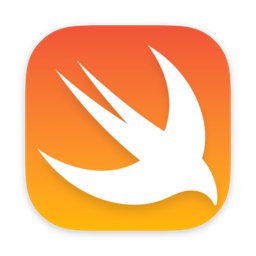
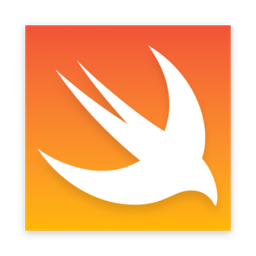
feat(import): turn corners off for every imported background
Corners now go to off for any background image import, app icon or
full-bleed artwork alike. Padding and shadow still follow the image's
edges. The Settings > Importing toggle is "Set Corners to Off on Import"
again and applies to every import; mica-cli and the configuration codec
use .off as the corner baseline for an imported background.

IconBackgroundSpec.importedCornerRadiusStyle went, since nothing depends
on the image any more. The import notice now reports Corners off for
artwork over default settings and no corner change for artwork after an
app icon.

Tests: MicaTests 1099 total, 1092 passed, 5 skipped, 2 failed; both
failures are ImportNoticeTests title checks against uncommitted title
wording in the working tree, not part of this commit. mica-cli Tests
348/348. cli-smoke-test.sh 99/8/20/28/55/9 with the two artwork corner
rows flipped. check-wiki-coverage.sh passes. Five wiki images that
import full-bleed artwork were regenerated.

diff --git a/MicaTests/Models/IconSettingsImportDefaultsTests.swift b/MicaTests/Models/IconSettingsImportDefaultsTests.swift
@@ -1,10 +1,10 @@
 // IconSettingsImportDefaultsTests.swift
 // Covers the per-slot imported-image helpers on IconSettings. Every image
 // import (menu, paste, drag, sidebar, CLI) routes through these so the
-// defaults stay consistent. A background's defaults depend on the image: an
-// app icon (transparent edges) gets padding compensation with its shadow and
-// corners off, artwork that reaches its edges gets neither. A foreground
-// import leaves the shadow alone.
+// defaults stay consistent. A background's padding and shadow depend on the
+// image: an app icon (transparent edges) gets padding compensation with its
+// shadow off, artwork that reaches its edges gets neither. Corners go off for
+// either. A foreground import leaves the shadow alone.
 
 import Testing
 import SwiftUI
@@ -109,7 +109,7 @@ struct IconSettingsImportDefaultsTests {
         #expect(settings.icon.background.cornerRadiusStyle == .off)
     }
 
-    @Test("Importing full-bleed artwork as the icon background keeps its edges, shadow and corners")
+    @Test("Importing full-bleed artwork as the icon background keeps its edges and shadow, and turns corners off")
     func iconBackground_fullBleedKeepsStyles() throws {
         var settings = IconSettings()
         settings.icon.background.shadowStyle = .macOS15
@@ -119,10 +119,10 @@ struct IconSettingsImportDefaultsTests {
 
         #expect(settings.icon.background.compensatesForPadding == false)
         #expect(settings.icon.background.shadowStyle == .macOS15)
-        #expect(settings.icon.background.cornerRadiusStyle == .macOS15)
+        #expect(settings.icon.background.cornerRadiusStyle == .off)
     }
 
-    @Test("Full-bleed artwork after an app icon turns the shadow and corners back on")
+    @Test("Full-bleed artwork after an app icon turns the shadow back on and leaves corners off")
     func iconBackground_fullBleedAfterAppIcon() throws {
         var settings = IconSettings()
         settings.icon.applyBackgroundImage(try ImportedImage.iconFixture())
@@ -131,11 +131,11 @@ struct IconSettingsImportDefaultsTests {
 
         #expect(settings.icon.background.compensatesForPadding == false)
         #expect(settings.icon.background.shadowStyle == IconBackgroundSpec().shadowStyle)
-        #expect(settings.icon.background.cornerRadiusStyle == IconBackgroundSpec().cornerRadiusStyle)
+        #expect(settings.icon.background.cornerRadiusStyle == .off)
     }
 
-    @Test("The corner preference applies to app icons only")
-    func iconBackground_cornerPreferenceScopedToAppIcons() throws {
+    @Test("With the corner preference off, every import keeps the corners it had")
+    func iconBackground_cornerPreferenceOffKeepsCorners() throws {
         let keepCorners = ImportDefaults(hidesForeground: true, turnsOffCornerRadius: false)
 
         var icon = IconSettings()
@@ -143,9 +143,9 @@ struct IconSettingsImportDefaultsTests {
         #expect(icon.icon.background.cornerRadiusStyle == IconBackgroundSpec().cornerRadiusStyle)
 
         var artwork = IconSettings()
-        artwork.icon.background.cornerRadiusStyle = .off
+        artwork.icon.background.cornerRadiusStyle = .macOS15
         artwork.icon.applyBackgroundImage(try ImportedImage.testFixture(width: 64, height: 64), defaults: keepCorners)
-        #expect(artwork.icon.background.cornerRadiusStyle == IconBackgroundSpec().cornerRadiusStyle)
+        #expect(artwork.icon.background.cornerRadiusStyle == .macOS15)
     }
 
     // MARK: - Badge background

diff --git a/Mica/Services/MicaConfig.swift b/Mica/Services/MicaConfig.swift
@@ -711,14 +711,13 @@ private struct ConfigReader {
             settings.icon.background.usesGradient = gradient
         }
         // The third conditional baseline: absent `icon-bg-corner-radius` + an imported
-        // icon background ⇒ `.off` for an app icon and on for artwork that reaches its
-        // edges, mirroring `IconSpec.applyBackgroundImage`; encode uses the same
-        // baseline. The background shadow follows the same split.
+        // icon background ⇒ `.off`, mirroring `IconSpec.applyBackgroundImage`; encode
+        // uses the same baseline. The background shadow's baseline depends on
+        // `ImportedImage.hasIconMargin`.
         if let cornerRadius = token(.iconBGCornerRadius, as: IconCornerRadiusStyle.self) {
             settings.icon.background.cornerRadiusStyle = cornerRadius
         } else if importedBackground {
-            settings.icon.background.cornerRadiusStyle = IconBackgroundSpec.importedCornerRadiusStyle(
-                for: settings.icon.background.image, current: settings.icon.background.cornerRadiusStyle)
+            settings.icon.background.cornerRadiusStyle = .off
         }
         if let shadow = token(.iconBGShadow, as: DropShadowStyle.self) {
             settings.icon.background.shadowStyle = shadow
@@ -1270,11 +1269,10 @@ private struct ConfigWriter {
             // `.off`), so both remaining sources read it.
             //
             // Baseline mirrors decode's fresh-import rule, the third of the three: an
-            // imported app icon's corner radius defaults to `.off`, other imported
-            // artwork's to on. The shadow, which every source draws, splits the same way.
+            // imported background's corner radius defaults to `.off`. The shadow, which
+            // every source draws, is off for an app icon and on for other artwork.
             let cornerBaseline: IconCornerRadiusStyle = iconBGImportWritten
-                ? IconBackgroundSpec.importedCornerRadiusStyle(
-                    for: iconBG.image, current: defaults.icon.background.cornerRadiusStyle)
+                ? .off
                 : defaults.icon.background.cornerRadiusStyle
             if iconBG.cornerRadiusStyle != cornerBaseline {
                 put(.iconBGCornerRadius, iconBG.cornerRadiusStyle.cliToken)

diff --git a/mica-cli Tests/ImportedImageDefaultsTests.swift b/mica-cli Tests/ImportedImageDefaultsTests.swift
@@ -1,7 +1,8 @@
 // ImportedImageDefaultsTests.swift
 // Mirrors the GUI's imported-image defaults in the CLI. An imported background
 // that is an app icon (transparent edges) gets padding compensation with its
-// shadow and corners off; artwork that reaches its edges keeps all three.
+// shadow off; artwork that reaches its edges keeps both. Corners go off for
+// either.
 // Foreground imports keep their shadow. Explicit flags override every default.
 
 import Testing
@@ -71,7 +72,7 @@ struct ImportedImageDefaultsTests {
         #expect(settings.icon.background.shadowStyle == .off)
     }
 
-    @Test("Full-bleed artwork as --icon-bg keeps its edges, shadow and corners")
+    @Test("Full-bleed artwork as --icon-bg keeps its edges and shadow")
     func iconBackgroundFullBleed_defaults() throws {
         let path = try makeTempImageFile(inset: 0).path
         let command = try parseCommand(["--icon-symbol", "star.fill", "--icon-bg", path])
@@ -79,7 +80,6 @@ struct ImportedImageDefaultsTests {
         #expect(settings.icon.background.source == .image)
         #expect(settings.icon.background.compensatesForPadding == false)
         #expect(settings.icon.background.shadowStyle == IconBackgroundSpec().shadowStyle)
-        #expect(settings.icon.background.cornerRadiusStyle == IconBackgroundSpec().cornerRadiusStyle)
     }
 
     @Test("Explicit --icon-bg-padding and --icon-bg-shadow beat the detected defaults")
@@ -106,9 +106,9 @@ struct ImportedImageDefaultsTests {
     // structurally unable to change what `mica-cli` renders. These tests pin the
     // resulting values so the routing cannot be quietly undone.
 
-    @Test("An app icon as --icon-bg turns the corner radius off")
-    func iconBackgroundImage_turnsCornerRadiusOff() throws {
-        let path = try makeTempImageFile(inset: 0.1).path
+    @Test("Any image as --icon-bg turns the corner radius off", arguments: [0.1, 0])
+    func iconBackgroundImage_turnsCornerRadiusOff(inset: Double) throws {
+        let path = try makeTempImageFile(inset: inset).path
         let settings = try IconGenerationRunner()
             .buildTestSettings(from: parseCommand(["--icon-symbol", "star.fill", "--icon-bg", path]))
         #expect(settings.icon.background.cornerRadiusStyle == .off)

diff --git a/Mica/Views/Settings/SettingsView.swift b/Mica/Views/Settings/SettingsView.swift
@@ -191,10 +191,10 @@ struct ImportSettingsTab: View {
                 // Names the control it moves — the Corners picker, its Off case — so
                 // the user can go and undo it.
                 Toggle(isOn: $turnsOffCornerRadius) {
-                    Text("Set Corners to Off for App Icons")
-                    Text("Turns corner rounding off when the imported image is an app "
-                         + "icon, so its own shape is drawn. Images that fill their "
-                         + "edges, like photos and textures, always keep rounded corners.")
+                    Text("Set Corners to Off on Import")
+                    Text("Turns corner rounding off for imported artwork. Rounding cuts "
+                         + "the corners from artwork that fills its own bounds. Turn "
+                         + "this off to clip a photo or texture to the icon's shape.")
                 }
             } header: {
                 Text("Imported Backgrounds")
@@ -208,9 +208,9 @@ struct ImportSettingsTab: View {
                     // targets. Without it, someone who turns both off and then runs
                     // the CLI gets a different icon with no way to know why.
                     Text("These settings apply to Mica only. mica-cli always hides the "
-                         + "foreground and sets Corners to Off for app icons. Imported "
-                         + "configurations do the same. One configuration then renders "
-                         + "the same way everywhere.")
+                         + "foreground and sets Corners to Off. Imported configurations "
+                         + "do the same. One configuration then renders the same way "
+                         + "everywhere.")
                 }
                 .settingsFooter()
             }

diff --git a/MicaTests/Models/ImportNoticeTests.swift b/MicaTests/Models/ImportNoticeTests.swift
@@ -36,13 +36,13 @@ struct ImportNoticeTests {
         #expect(found.subtitle == "Icon Padding off · Shadow off · Corners off · Foreground hidden")
     }
 
-    @Test("Artwork over default settings reports only the hidden foreground")
+    @Test("Artwork over default settings reports only corners and the hidden foreground")
     func artwork_reportsOnlyWhatChanged() throws {
         let (notice, _) = try Self.notice(IconSettings()) {
             $0.icon.applyBackgroundImage(try Self.artwork())
         }
         let found = try #require(notice)
-        #expect(found.fields == [.foreground])
+        #expect(found.fields == [.corners, .foreground])
         #expect(found.title == "Artwork Imported")
     }
 
@@ -54,8 +54,8 @@ struct ImportNoticeTests {
             $0.icon.applyBackgroundImage(try Self.artwork())
         }
         let found = try #require(notice)
-        #expect(found.fields == [.padding, .shadow, .corners])
-        #expect(found.subtitle == "Icon Padding on · Shadow on · Corners on")
+        #expect(found.fields == [.padding, .shadow])
+        #expect(found.subtitle == "Icon Padding on · Shadow on")
     }
 
     @Test("A badge import reports padding, shadow and foreground, and no corners")
@@ -87,7 +87,7 @@ struct ImportNoticeTests {
 
     @Test("An import that changes nothing else raises no notice")
     func importChangingNothing_noNotice() throws {
-        let keepForeground = ImportDefaults(hidesForeground: false, turnsOffCornerRadius: true)
+        let keepForeground = ImportDefaults(hidesForeground: false, turnsOffCornerRadius: false)
         let (notice, _) = try Self.notice(IconSettings()) {
             $0.icon.applyBackgroundImage(try Self.artwork(), defaults: keepForeground)
         }

diff --git a/Mica/Models/IconSettings.swift b/Mica/Models/IconSettings.swift
@@ -98,9 +98,8 @@ struct IconSpec: Equatable {
     mutating func applyBackgroundImage(_ image: ImportedImage,
                                        defaults: ImportDefaults = .fixed) {
         background.apply(image)                     // source, padding, shadow
-        if !image.hasIconMargin || defaults.turnsOffCornerRadius {
-            background.cornerRadiusStyle = IconBackgroundSpec.importedCornerRadiusStyle(
-                for: image, current: background.cornerRadiusStyle)
+        if defaults.turnsOffCornerRadius {
+            background.cornerRadiusStyle = .off
         }
         if defaults.hidesForeground {
             foreground.isHidden = true
@@ -412,15 +411,6 @@ struct IconBackgroundSpec: Equatable {
     static func importedShadowStyle(for image: ImportedImage?, current: DropShadowStyle) -> DropShadowStyle {
         if image?.hasIconMargin ?? true { return .off }
         return current == .off ? IconBackgroundSpec().shadowStyle : current
-    }
-
-    /// The corner radius an imported background starts with: off for an app icon,
-    /// on for artwork that reaches its edges. The GUI's preference can keep an app
-    /// icon's corners — see `IconSpec.applyBackgroundImage(_:defaults:)`.
-    static func importedCornerRadiusStyle(for image: ImportedImage?,
-                                          current: IconCornerRadiusStyle) -> IconCornerRadiusStyle {
-        if image?.hasIconMargin ?? true { return .off }
-        return current == .off ? IconBackgroundSpec().cornerRadiusStyle : current
     }
 }
 

diff --git a/MicaTests/Models/MicaConfigTests.swift b/MicaTests/Models/MicaConfigTests.swift
@@ -737,26 +737,23 @@ struct MicaConfigTests {
         let decoded = try Self.roundTrip(settings).settings.icon.background
         #expect(decoded.compensatesForPadding == false)
         #expect(decoded.shadowStyle == IconBackgroundSpec().shadowStyle)
-        #expect(decoded.cornerRadiusStyle == IconBackgroundSpec().cornerRadiusStyle)
+        #expect(decoded.cornerRadiusStyle == .off)
     }
 
-    @Test("app-icon styling over full-bleed artwork is written and round-trips")
+    @Test("app-icon padding and shadow over full-bleed artwork are written and round-trip")
     func fullBleedBackground_overridesAreWritten() throws {
         var settings = IconSettings()
         settings.icon.applyBackgroundImage(try ImportedImage.testFixture(width: 64, height: 64))
         settings.icon.background.compensatesForPadding = true
         settings.icon.background.shadowStyle = .off
-        settings.icon.background.cornerRadiusStyle = .off
 
         let object = try Self.encoded(settings)
         #expect(object["icon-bg-padding"] as? Bool == false)
         #expect(object["icon-bg-shadow"] as? String == "off")
-        #expect(object["icon-bg-corner-radius"] as? String == "off")
 
         let decoded = try Self.roundTrip(settings).settings.icon.background
         #expect(decoded.compensatesForPadding == true)
         #expect(decoded.shadowStyle == .off)
-        #expect(decoded.cornerRadiusStyle == .off)
     }
 
     @Test("a badge background's padding and shadow baselines follow the artwork")

diff --git a/Mica/App/InspectorPreferences.swift b/Mica/App/InspectorPreferences.swift
@@ -25,10 +25,12 @@ enum InspectorPreferences {
     /// foreground disappears at the moment of import.
     static let hidesForegroundOnBackgroundImportKey = "import.hidesForeground"
 
-    /// On import of an app icon as a background, set the icon's corner radius to
-    /// `off`, so the icon's own shape is drawn unclipped. On by default. Artwork
-    /// that reaches its edges keeps its corners either way
-    /// (`ImportedImage.hasIconMargin`). Icon-only; the badge has no corner radius.
+    /// On import of a background image, set the icon's corner radius to `off`.
+    /// On by default, because artwork that fills its own bounds loses its corners
+    /// to any radius at all.
+    ///
+    /// Off suits artwork that *should* be clipped to a chiclet — a texture or a
+    /// photo. Icon-only; the badge has no corner radius.
     static let turnsOffCornerRadiusOnBackgroundImportKey = "import.turnsOffCornerRadius"
 }
 

diff --git a/Mica/Models/ImportDefaults.swift b/Mica/Models/ImportDefaults.swift
@@ -2,7 +2,7 @@
 import Foundation
 
 /// The two guesses Mica makes when a *background* image is imported: hide that
-/// group's foreground, and turn the icon's corner radius off for an app icon.
+/// group's foreground, and turn the icon's corner radius off.
 ///
 /// Both are guesses at something the file cannot tell us, so both are
 /// preferences in the GUI — see §5 of
@@ -24,8 +24,7 @@ import Foundation
 struct ImportDefaults: Equatable {
     /// Hide the imported background's own group foreground.
     var hidesForeground: Bool
-    /// Set `IconCornerRadiusStyle.off` when the image is an app icon
-    /// (`ImportedImage.hasIconMargin`). Icon-only — the badge has no corner
+    /// Set `IconCornerRadiusStyle.off`. Icon-only — the badge has no corner
     /// radius, its shape coming from `BadgeGeometry.badgeCornerRadiusRatio` or
     /// from imported artwork's own alpha.
     var turnsOffCornerRadius: Bool

diff --git a/wiki/Icon-Settings.md b/wiki/Icon-Settings.md
@@ -381,9 +381,10 @@ Other artwork reaches at least one edge.
 | Image | Padding | Shadow | Corners |
 |---|---|---|---|
 | App icon | `off` | `off` | `off` |
-| Other artwork | `on` | `macos27` | `macos26` |
+| Other artwork | `on` | `macos27` | `off` |
 
 A flag or config key overrides each default.
+In the app, Settings ▸ Importing can keep the corners.
 
 <img src="images/icon-bg-image-foreground-hidden.png" width="128" alt="Imported background with foreground hidden"> <img src="images/icon-bg-image-foreground-shown.png" width="128" alt="Imported background with foreground shown">
 
@@ -490,13 +491,13 @@ Sets the corner shape for colour and imported image backgrounds.
 | **In the app** | Icon ▸ Background ▸ Appearance ▸ **Corners** |
 | **Command line** | `--icon-bg-corner-radius off\|macos15\|macos26` |
 | **Config key** | `"icon-bg-corner-radius"` |
-| **Default** | `off` for imported app icons, `macos26` otherwise |
+| **Default** | `off` for imported images, `macos26` otherwise |
 | **Shown when** | Advanced controls are on and Mica mode is active. |
 
 <img src="images/icon-bg-corner-radius-off.png" width="128" alt="Corners off"> <img src="images/icon-bg-corner-radius-macos15.png" width="128" alt="macOS 15 corners"> <img src="images/icon-bg-corner-radius-macos26.png" width="128" alt="macOS 26 corners">
 
 From left: `off`, `macos15`, `macos26`.
-Use `off` for artwork that fills its own edges.
+Use `macos15` or `macos26` to clip imported artwork to the icon shape.
 
 ```shell
 mica-cli --icon-symbol star.fill --size 256 --icon-bg-corner-radius macos26
